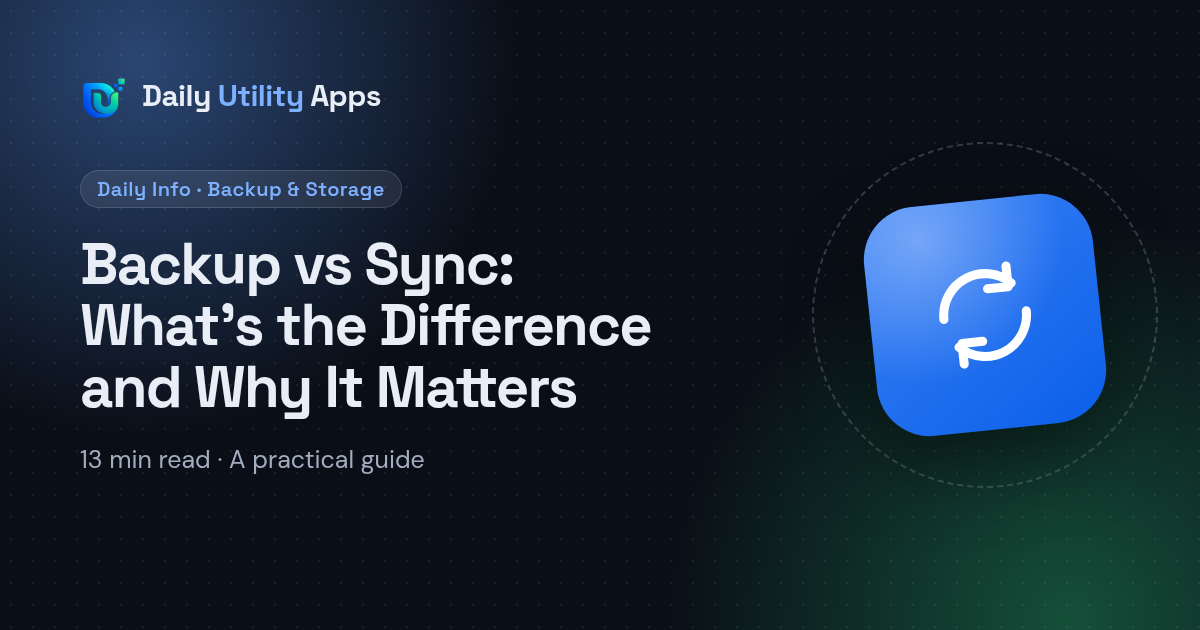
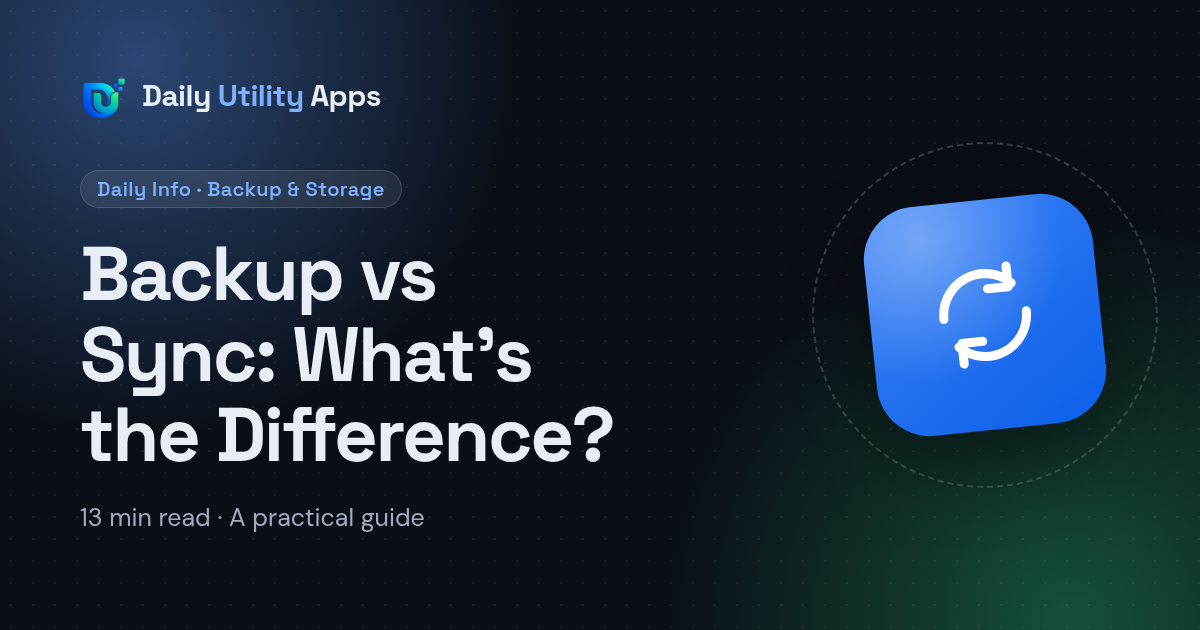
Copy: fix the last AI-style phrases found by scanning the built site
A scan of the rendered pages, meta tags, structured data and feed found
four leftovers:
- Guide title "Backup vs Sync: What's the Difference and Why It
  Matters" is now "Backup vs Sync: What's the Difference?", with its
  share image regenerated to match.
- "before you say goodbye to the old phone", "no matter how many photos
  you take" and "all in one app" rewritten.
- Heading "Other permissions worth reviewing" is now "Other
  permissions to review".

The legal pages were read in full and left as they are.

Claude-Session: https://claude.ai/code/session_01M7AqB68kCuEzMyQnHXTEoC

Changed region(s): [[0.0617, 0.3619, 0.555, 0.754], [0.0617, 0.8143, 0.37, 0.8444]]

diff --git a/index.html b/index.html
@@ -15,7 +15,7 @@ faqs:
   - q: "Can I get back a photo I deleted by mistake?"
     a: "Often, if you act quickly. Photo Recover & Data Recovery looks for deleted photos and files that are still in your phone's trash bin and restores them. No app can promise to recover everything: once a file has left the trash, it may be gone for good, so the sooner you look, the better."
   - q: "What files can Document Reader open?"
-    a: "PDF, Word, Excel and PowerPoint files, all in one app, so you don't need a different app for each type of document."
+    a: "PDF, Word, Excel and PowerPoint files in one app, so you don't need a different app for each type of document."
   - q: "Do you sell my data or use my files for advertising?"
     a: "No. We never sell your personal information, and we never use your files to build advertising profiles. Our privacy policy has the full details."
   - q: "How do I get help with one of your apps?"

diff --git a/daily-info/backup-vs-sync.md b/daily-info/backup-vs-sync.md
@@ -1,9 +1,9 @@
 ---
 layout: post
 css: post
-title: "Backup vs Sync: What's the Difference and Why It Matters"
+title: "Backup vs Sync: What's the Difference?"
 description: "Backup and sync sound alike but protect you differently. Learn what each does, when sync can delete your files, and why you want both."
-heading: "Backup vs Sync: What's the Difference and Why It Matters"
+heading: "Backup vs Sync: What's the Difference?"
 category: "Backup & Storage"
 date: 2026-09-29
 updated: 2026-09-29
@@ -29,7 +29,7 @@ related:
   - backup-before-switching-phones
   - check-app-permissions-photos
 og_image: "/assets/og/backup-vs-sync.png"
-og_image_alt: "Backup vs Sync: What's the Difference and Why It Matters: a Daily Info guide from Daily Utility Apps"
+og_image_alt: "Backup vs Sync: What's the Difference? A Daily Info guide from Daily Utility Apps"
 ---
 
 "Is it backed up?" is an easy question to get wrong. Many people believe their photos and files are backed up because they're "in the cloud", only to find out after an accident that what they had was sync, not a backup. The two sound similar, often live in the same apps, and even use the same cloud storage. But they're built for different jobs, and the difference matters most at exactly the moment something goes wrong.

diff --git a/daily-info/move-photos-android-to-iphone.md b/daily-info/move-photos-android-to-iphone.md
@@ -34,7 +34,7 @@ og_image_alt: "How to Move Photos From Android to iPhone (and Back): a Daily Inf
 
 Switching between Android and iPhone used to mean accepting that some things would be left behind. Photos were often the biggest casualty: albums scattered, videos missing, pictures arriving as blurry, compressed copies. Things are much better now. Both Apple and Google provide tools for moving to their phones, cloud photo services work on both platforms, and there are several reliable ways to get your library across in full quality.
 
-This guide covers the practical options for moving photos and videos from Android to iPhone, and from iPhone to Android, what to check before you start, and how to make sure everything arrived before you say goodbye to the old phone.
+This guide covers the practical options for moving photos and videos from Android to iPhone, and from iPhone to Android, what to check before you start, and how to make sure everything arrived before you part with the old phone.
 
 ## Before you start
 

diff --git a/document-reader-pdf.md b/document-reader-pdf.md
@@ -2,7 +2,7 @@
 layout: app
 css: app
 title: "Document Reader: Read All PDF, for PDF, Word & Excel"
-description: "Document Reader: Read All PDF opens PDF, Word, Excel and PowerPoint files on your Android phone, all in one app. From Daily Utility Apps."
+description: "Document Reader: Read All PDF opens PDF, Word, Excel and PowerPoint files on your Android phone in one app. From Daily Utility Apps."
 app_name: "Document Reader: Read All PDF"
 tagline: "Read PDF, Word, Excel and PowerPoint files in one app."
 android_url: "https://play.google.com/store/apps/details?id=com.dw.pdf.reader.pdfviewer.pdfeditor.alldocumentreader.filereader"

diff --git a/daily-info/check-app-permissions-photos.md b/daily-info/check-app-permissions-photos.md
@@ -157,7 +157,7 @@ Both platforms offer family tools that help. On iPhone, **Family Sharing** and *
 
 Whatever tools you use, the same principles apply: review which apps can access photos, camera, microphone and location, prefer limited access over full access, and talk with children about why an app asking for their photos or contacts is worth a second thought.
 
-## Other permissions worth reviewing
+## Other permissions to review
 
 While you're checking photos and files, look at the other sensitive permissions too.
 

diff --git a/daily-info/organise-phone-photos.md b/daily-info/organise-phone-photos.md
@@ -189,7 +189,7 @@ Set a reminder for the first weekend of each month, and do this:
 4. Add photos to your long-term albums, like trips or people.
 5. Check your backup is still running and up to date.
 
-Done regularly, it takes minutes, and your camera roll stays manageable no matter how many photos you take.
+Done regularly, it takes minutes, and your camera roll stays manageable however many photos you take.
 
 ## Keep your library safe as it grows
 
